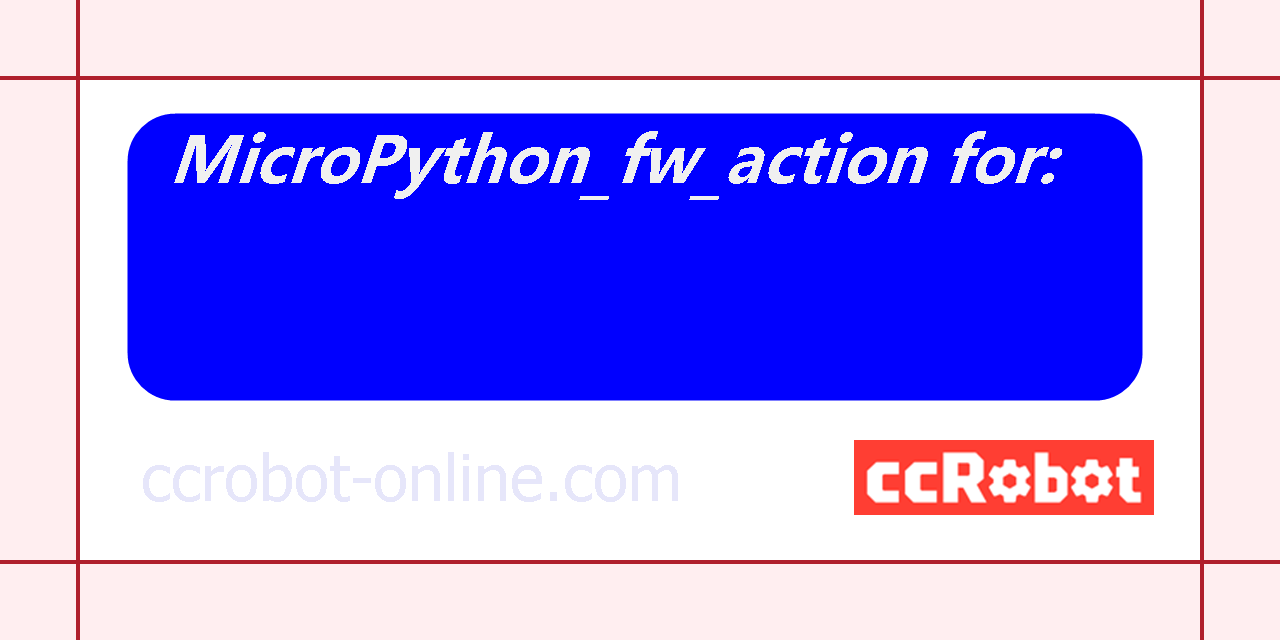
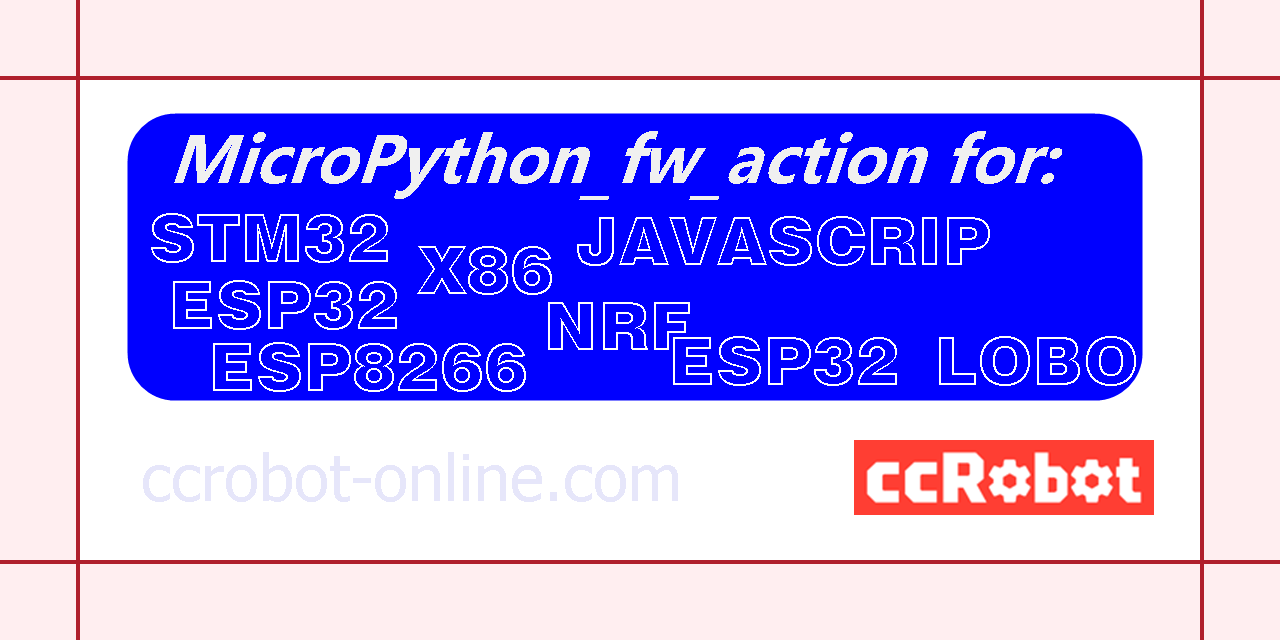
wakey wakey GitHub Actions

diff --git a/README.md b/README.md
@@ -13,11 +13,11 @@
 | 5 	| ![](https://img.shields.io/badge/mpy_cross-official-blue) 	| [![Actions Status](https://github.com/ccccmagicboy/MicroPython_fw_action/workflows/mpy-cross_BUILD/badge.svg)](https://github.com/ccccmagicboy/MicroPython_fw_action/actions?query=workflow%3Ampy-cross_BUILD) 	|  	|  	|  	|  	|
 | 6 	| ![](https://img.shields.io/badge/ESP32-LoBo-blue) 	| [![Actions Status](https://github.com/ccccmagicboy/MicroPython_fw_action/workflows/ESP32_LoBo_BUILD/badge.svg)](https://github.com/ccccmagicboy/MicroPython_fw_action/actions?query=workflow%3Ampy-ESP32_LoBo_BUILD) 	|  	|  	|  	|  	|
 | 7 	| ![](https://img.shields.io/badge/Javascript-official-blue) 	| [![Actions Status](https://github.com/ccccmagicboy/MicroPython_fw_action/workflows/Javascript_BUILD/badge.svg)](https://github.com/ccccmagicboy/MicroPython_fw_action/actions?query=workflow%3AJavascript_BUILD) 	|  	|  	|  	|  	|
-
+| 8 	| ![](https://img.shields.io/badge/nRF-official-blue) 	| [![Actions Status](https://github.com/ccccmagicboy/MicroPython_fw_action/workflows/nRF_BUILD/badge.svg)](https://github.com/ccccmagicboy/MicroPython_fw_action/actions?query=workflow%3AnRF_BUILD) 	|  	|  	|  	|  	|
 
 Just 5 mins to get your own most up-to-date code from official micropython repository compiled only using free github account, click the star and have a try.
 
-now support stm32/esp32/esp32(loboris)/esp8266/x86(64bit)/javascript firmware build and mpy-cross tool build for different platforms. You can download artifacts that were uploaded during a workflow. Artifacts automatically expire after 90 days.
+now support stm32/esp32/esp32(loboris)/esp8266/x86(64bit)/javascript/nrf firmware build and mpy-cross tool build for different platforms. You can download artifacts that were uploaded during a workflow. Artifacts automatically expire after 90 days.
 
 Most binaries builded from official Micropython source code:
 - http://www.micropython.org/
